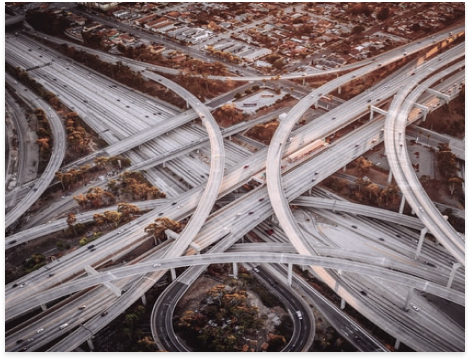
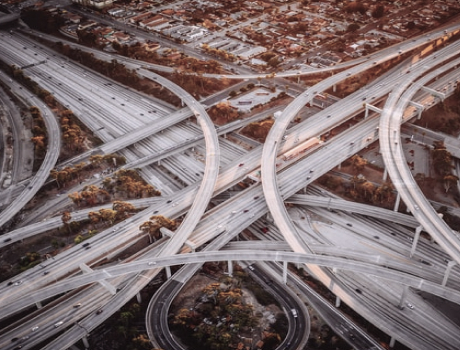
main

diff --git a/src/sass/modules/_footer.scss b/src/sass/modules/_footer.scss
@@ -1,0 +1,103 @@
+.footer {
+	color: $gray;
+	padding: 40rem 0;
+	&__left {
+		max-width: 420rem;
+	}
+	&__copyright {
+		font-weight: 300;
+		margin-bottom: 13rem;
+	}
+	
+	&__polity {
+		font-size: 14rem;
+		line-height: 140%;
+		font-weight: 300;
+	}
+	
+	&__contacts {
+		max-width: 220rem;
+		svg {
+			fill: $gray;
+		}
+		&-item {
+			&:not(:last-child) {
+				margin-bottom: 10rem;
+			}
+		}
+	}
+	
+	&__right {
+		max-width: 220rem;
+	}
+	
+	&__phone {
+		display: inline-flex;
+		align-items: center;
+		&-icon {
+			width: 20rem;
+			min-width: 20rem;
+			height: 20rem;
+			margin-right: 12rem;
+		}
+	}
+	
+	&__email {
+		display: inline-flex;
+		align-items: center;
+		&-icon {
+			width: 20rem;
+			min-width: 20rem;
+			height: 18rem;
+			margin-right: 12rem;
+		}
+	}
+	
+	&__social {
+		justify-content: center;
+		margin-bottom: 12rem;
+	}
+	
+	&__develop {
+		font-size: 14rem;
+		line-height: 140%;
+		font-weight: 300;
+		a {
+			font-weight: bold;
+		}
+	}
+	@include max-screen(700px) {
+		&__left {
+			max-width: 300rem;
+		}
+	}
+	
+	@include max-screen($large_mobile) {
+		&__left {
+			order: 3;
+			max-width: none;
+			width: 100%;
+			margin-top: 20rem;
+		}
+		&__right {
+			width: 100%;
+			max-width: none;
+			margin-top: 20rem;
+		}
+		&__social {
+			justify-content: flex-start;
+		}
+		
+		&__contacts {
+			display: flex;
+			max-width: none;
+			width: 100%;
+			&-item {
+				&:not(:last-child) {
+					margin-right: 30rem;
+					margin-bottom: 0;
+				}
+			}
+		}
+	}
+}

diff --git a/src/sass/modules/_contact-us.scss b/src/sass/modules/_contact-us.scss
@@ -1,0 +1,97 @@
+.contact-us {
+	padding: 109rem 0 100rem 0;
+	background: url(/img/contact-us__bg.jpg) top no-repeat;
+	background-size: auto 100%;
+	min-height: 444rem;
+	overflow: hidden;
+	color: #fff;
+	
+	&__row {
+		margin: 0 -20rem;
+	}
+	
+	&__column {
+		width: 50%;
+		padding: 0 20rem;
+	}
+	
+	&__text {
+		margin-top: 20rem;
+		max-width: 370rem;
+	}
+	
+	&__form {
+		&-row {
+			margin: 0 -10rem;
+		}
+		&-column {
+			padding: 0 10rem;
+			width: 50%;
+		}
+		&-bottom {
+			display: flex;
+			align-items: center;
+			justify-content: space-between;
+		}
+	}
+	&__polity {
+		font-size: 14rem;
+		line-height: 120%;
+		font-weight: 300;
+		a {
+			text-decoration: underline;
+		}
+	}
+	
+	@include max-screen(700px) {
+		padding: 70rem 0;
+		&__column {
+			width: 100%;
+		}
+		
+		&__title {
+			br {
+				display: none;
+			}
+		}
+		
+		&__text {
+			max-width: none;
+		}
+		
+		&__form {
+			margin-top: 30rem;
+		}
+	}
+	
+	@include max-screen($small_mobile) {
+		&__form {
+			&-column {
+				width: 100%;
+			}
+		}
+		
+		&__polity {
+			padding-right: 20rem;
+			br {
+				display: none;
+			}
+		}
+	}
+	
+	@include max-screen(359px) {
+		&__form {
+			&-bottom {
+				display: block;
+			}
+		}
+		&__polity {
+			padding-right: 0;
+		}
+		
+		&__btn {
+			width: 100%;
+			margin-top: 20rem;
+		}
+	}
+}

diff --git a/src/sass/modules/_!field.scss b/src/sass/modules/_!field.scss
@@ -1,0 +1,70 @@
+.field {
+	position: relative;
+	margin-bottom: 20rem;
+	
+	&__input {
+		display: block;
+		width: 100%;
+		height: 48rem;
+		border-radius: 8rem;
+		background: #F7F9FC;
+		border: 1px solid #E4E9F2;
+		padding: 0 16rem;
+		color: $default;
+		font-size: 18rem;
+		line-height: 1;
+		transition: ease .2s;
+		&::placeholder {
+			color: #7E7E7E;
+			font-weight: 300;
+		}
+		
+		&_white {
+			color: #fff;
+			background: rgba(#fff, .1);
+			&::placeholder {
+				color: #fff;
+			}
+		}
+	}
+	
+	&__textarea {
+		display: block;
+		width: 100%;
+		height: 100rem;
+		border-radius: 8rem;
+		background: #F7F9FC;
+		border: 1px solid #E4E9F2;
+		padding: 15rem 16rem;
+		color: $default;
+		font-size: 18rem;
+		line-height: 1;
+		resize: none;
+		overflow: hidden;
+		transition: ease .2s;
+		&::placeholder {
+			color: #7E7E7E;
+			font-weight: 300;
+		}
+		
+		&_white {
+			color: #fff;
+			background: rgba(#fff, .1);
+			&::placeholder {
+				color: #fff;
+			}
+		}
+	}
+	
+	&.error {
+		.field {
+			&__input, &__textarea {
+				border-color: $red;
+				color: $red;
+				&::placeholder {
+					color: $red;
+				}
+			}
+		}
+	}
+}

diff --git a/src/sass/modules/_social.scss b/src/sass/modules/_social.scss
@@ -1,0 +1,39 @@
+.social {
+	display: flex;
+	align-items: center;
+	
+	&__item {
+		width: 27rem;
+		height: 27rem;
+		border: 3px solid rgba($gray, .4);
+		border-radius: 8rem;
+		display: inline-flex;
+		align-items: center;
+		justify-content: center;
+		
+		fill: $gray;
+		
+		.icon {
+			&-fb {
+				width: 8rem;
+				height: 14rem;
+				margin-left: -1rem;
+				margin-top: -1rem;
+			}
+			&-instagram {
+				width: 16rem;
+				height: 16rem;
+				margin-right: -2rem;
+				margin-top: -2rem;
+			}
+			&-youtube {
+				width: 14rem;
+				height: 10rem;
+			}
+		}
+		
+		&:not(:last-child) {
+			margin-right: 22rem;
+		}
+	}
+}

diff --git a/src/sass/modules/_scope.scss b/src/sass/modules/_scope.scss
@@ -43,10 +43,6 @@
 			z-index: 1;
 		}
 		img {
-			width: 110%;
-			height: 110%;
-			left: -5%;
-			top: -5%;
 			max-width: none;
 			transition: ease .3s;
 		}

diff --git a/src/sass/modules/_!btn.scss b/src/sass/modules/_!btn.scss
@@ -15,6 +15,7 @@
 	font-weight: 600;
 	text-transform: uppercase;
 	letter-spacing: 1rem;
+	color: #fff;
 	
 	&__arrow {
 		width: 20rem;

diff --git a/src/sass/defaults/_!let.scss b/src/sass/defaults/_!let.scss
@@ -1,2 +1,3 @@
 $default: #000;
 $red: #F25555;
+$gray: #7E7E7E;
